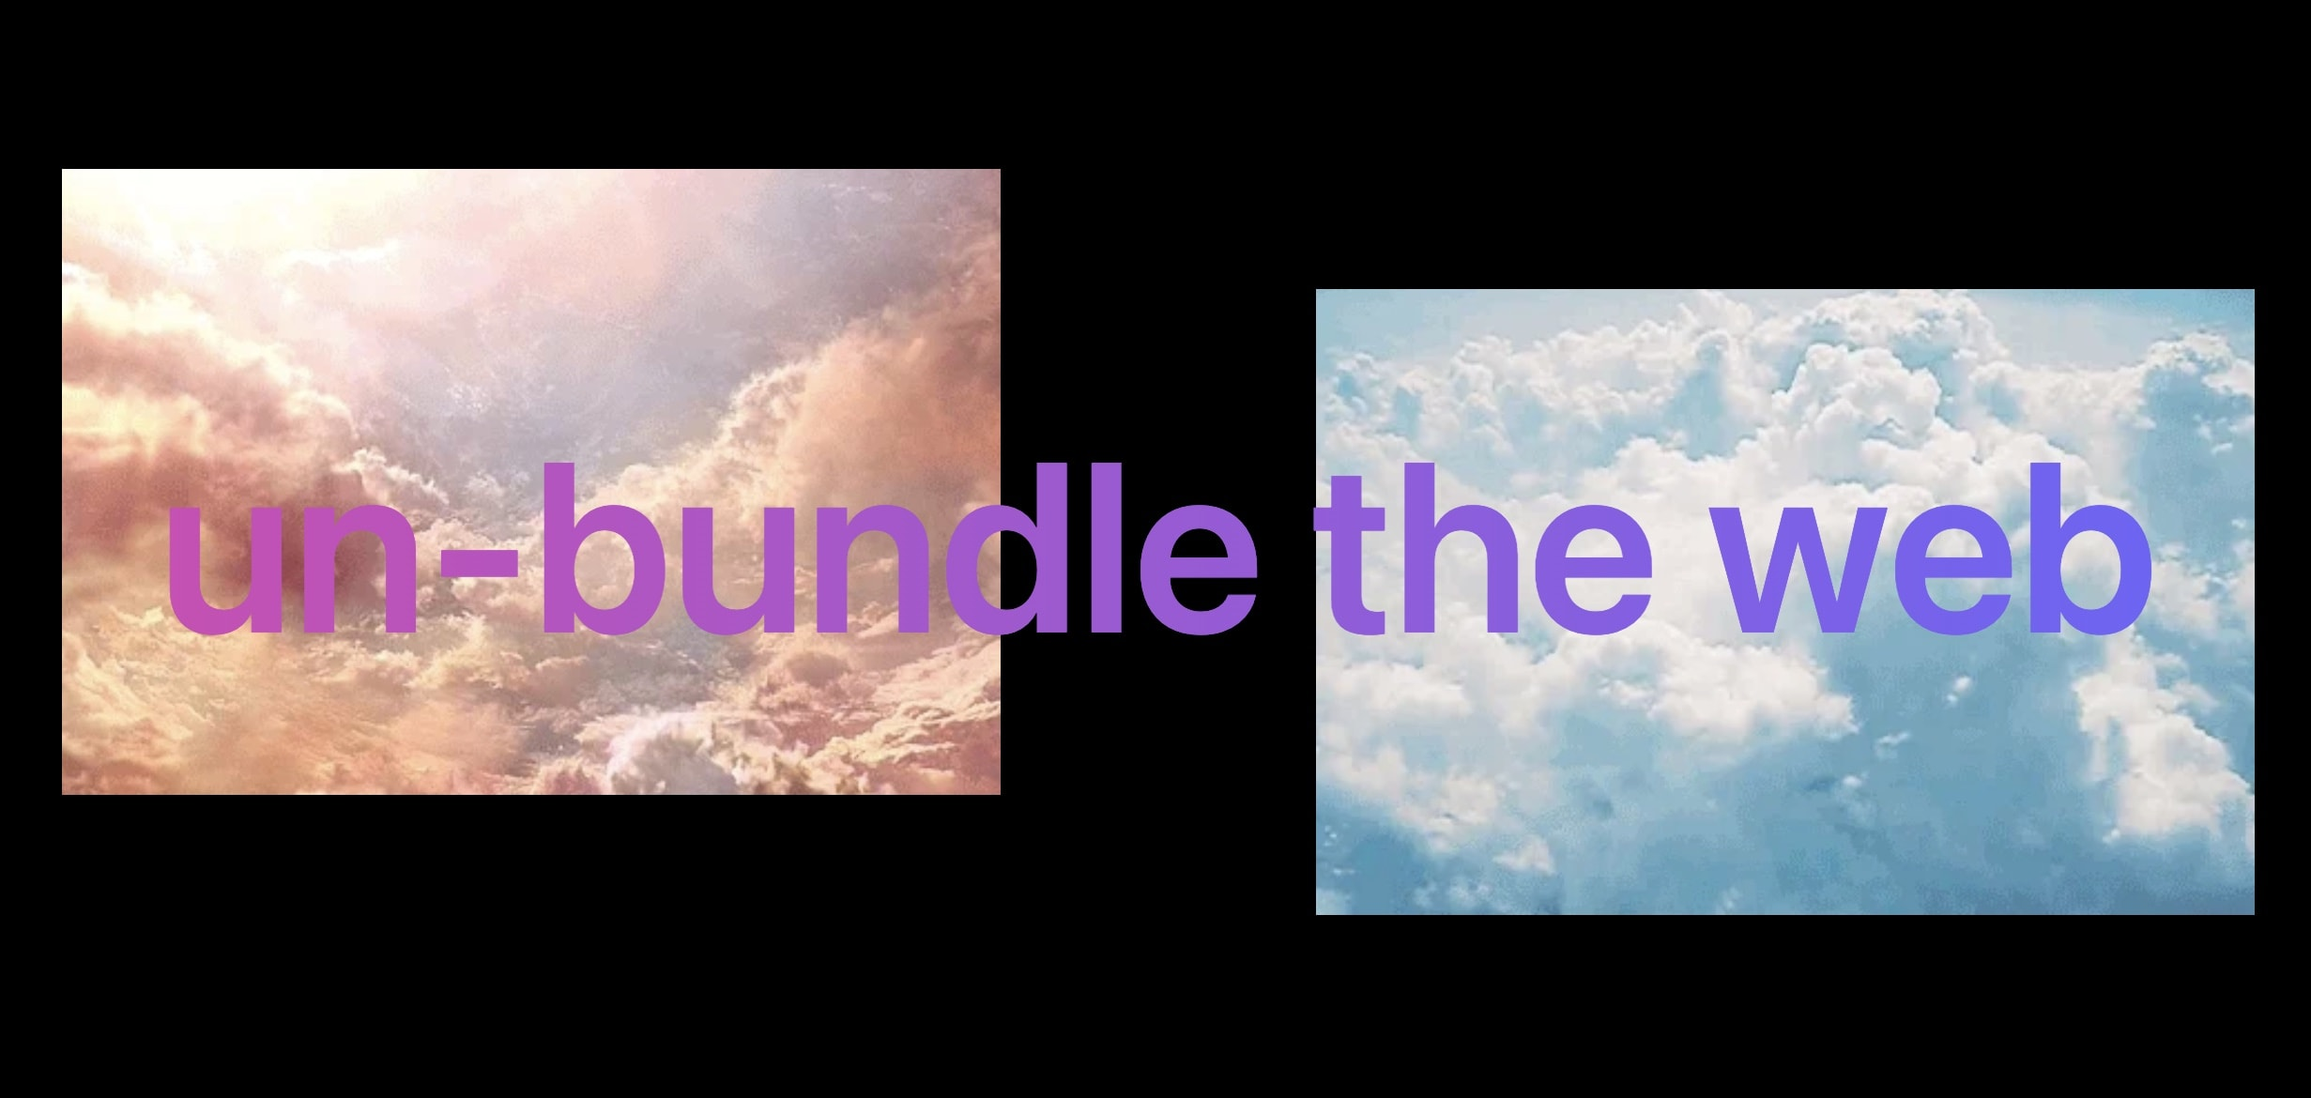
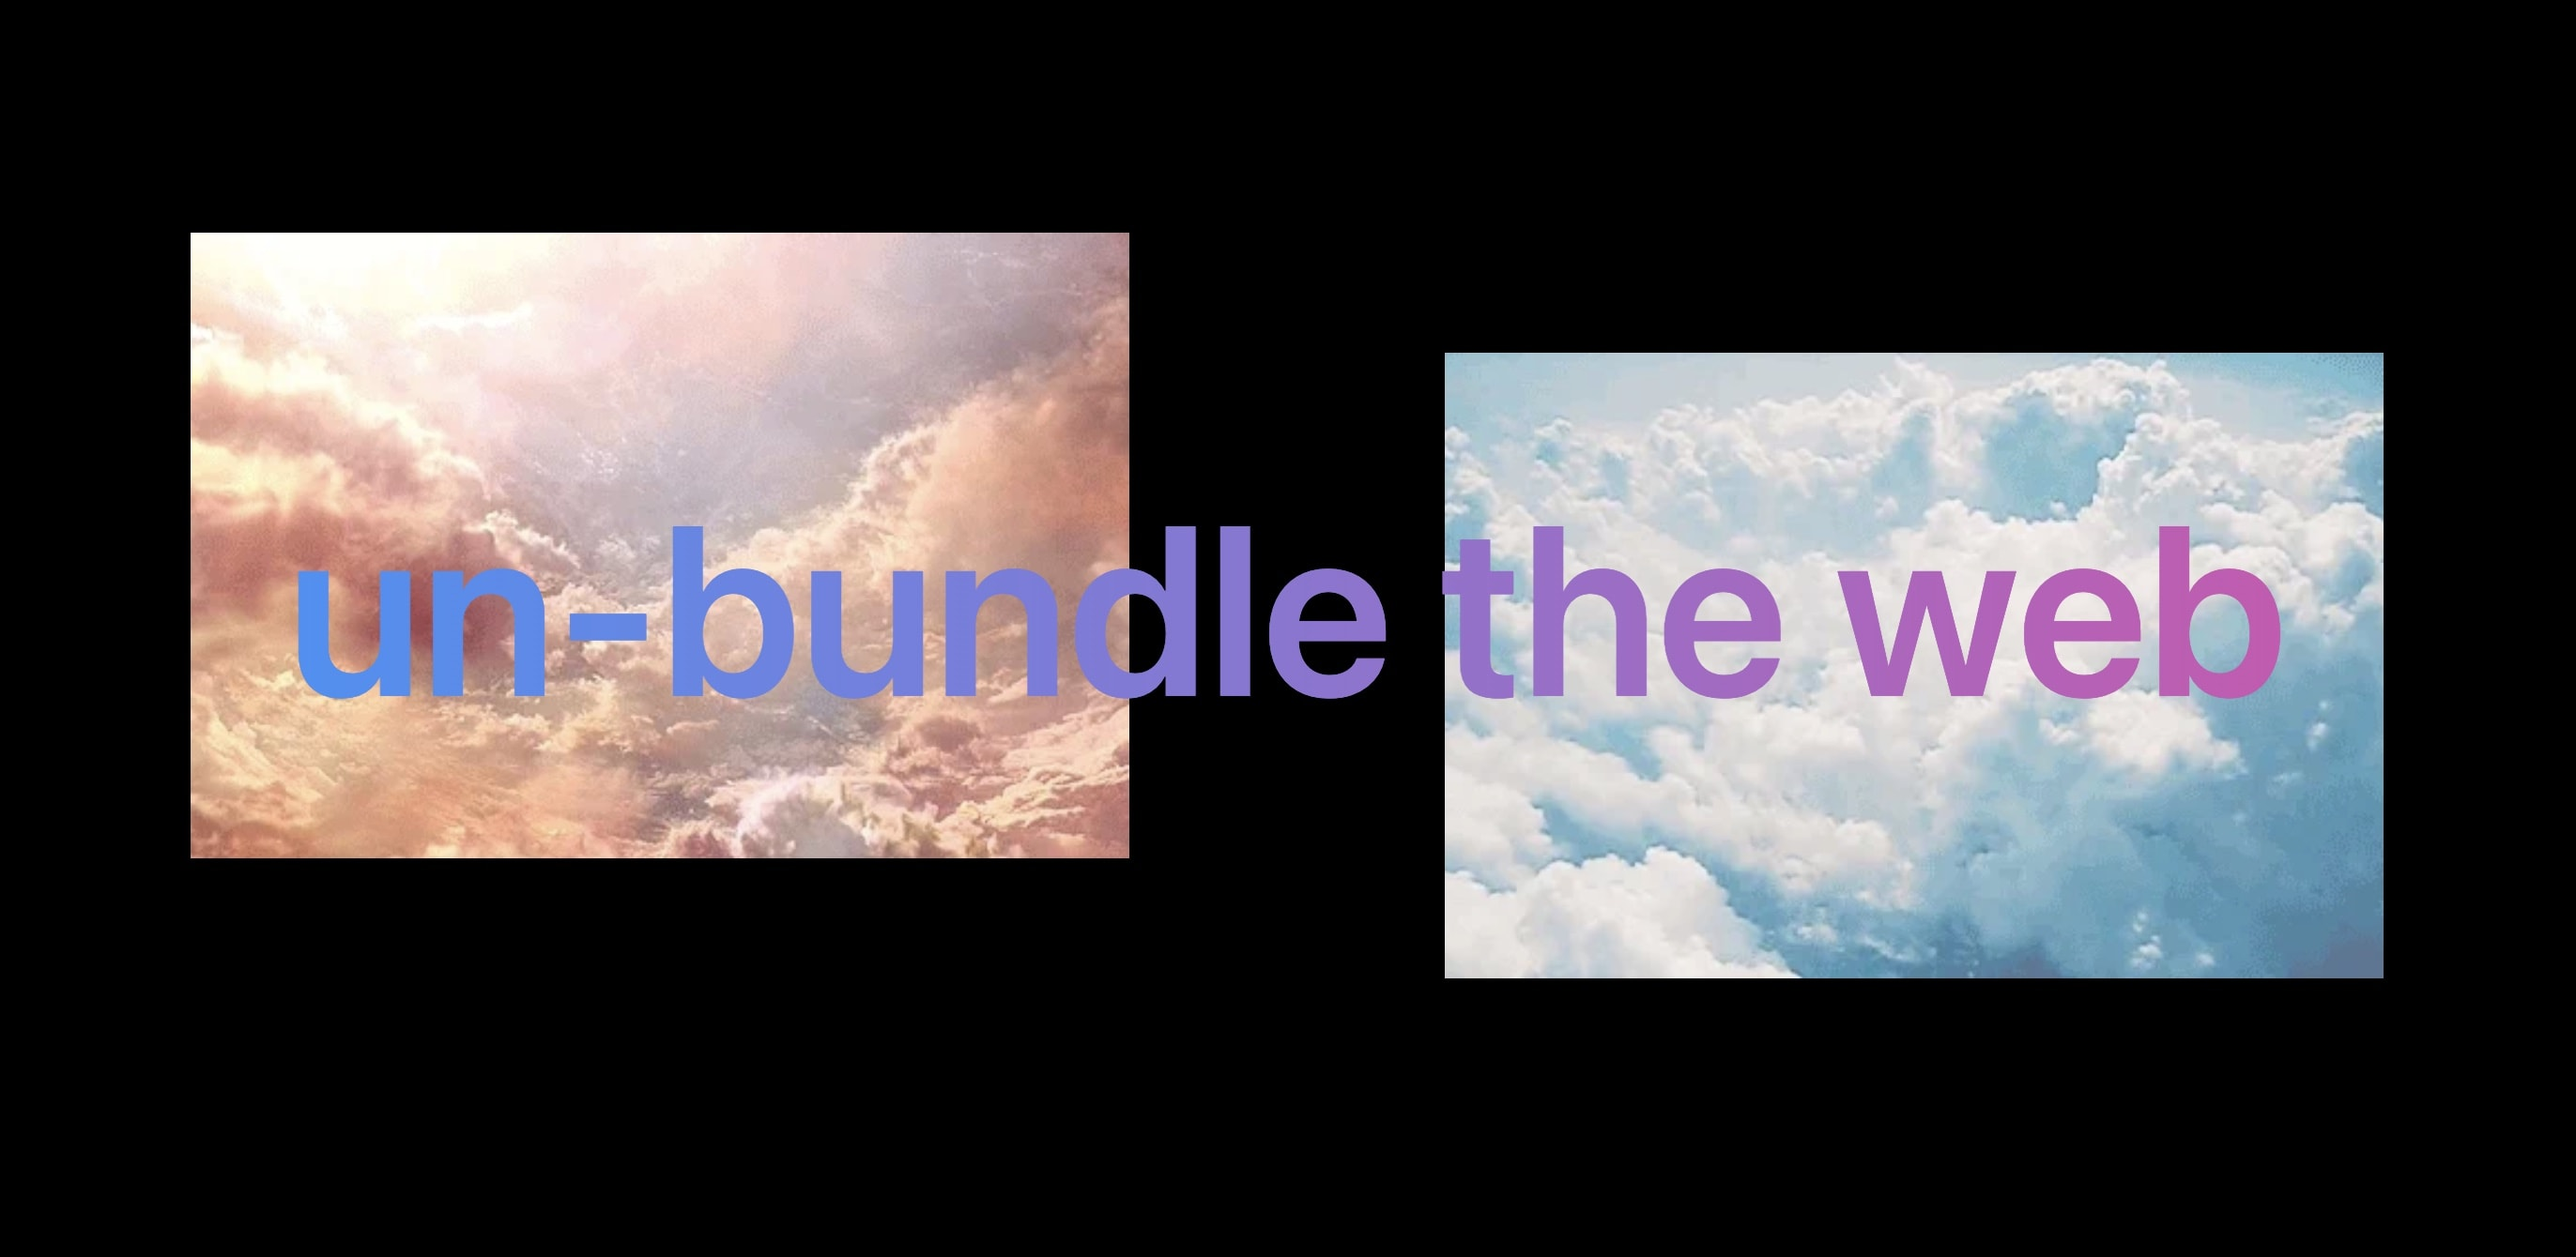
share image

Changed region(s): [[0.0, 0.1538, 0.9878, 0.8308]]

diff --git a/src/app.tsx b/src/app.tsx
@@ -70,7 +70,7 @@ export default Ultra;
 
 const Meta = () => {
   const img = "https://ultrajs.dev/ultra-share.jpg";
-  const desc = "💎 Modern Streaming React Framework";
+  const desc = "Modern Streaming React Framework: Un-bundle the web";
   return (
     <Helmet>
       <title>Ultra: Deno + React</title>
